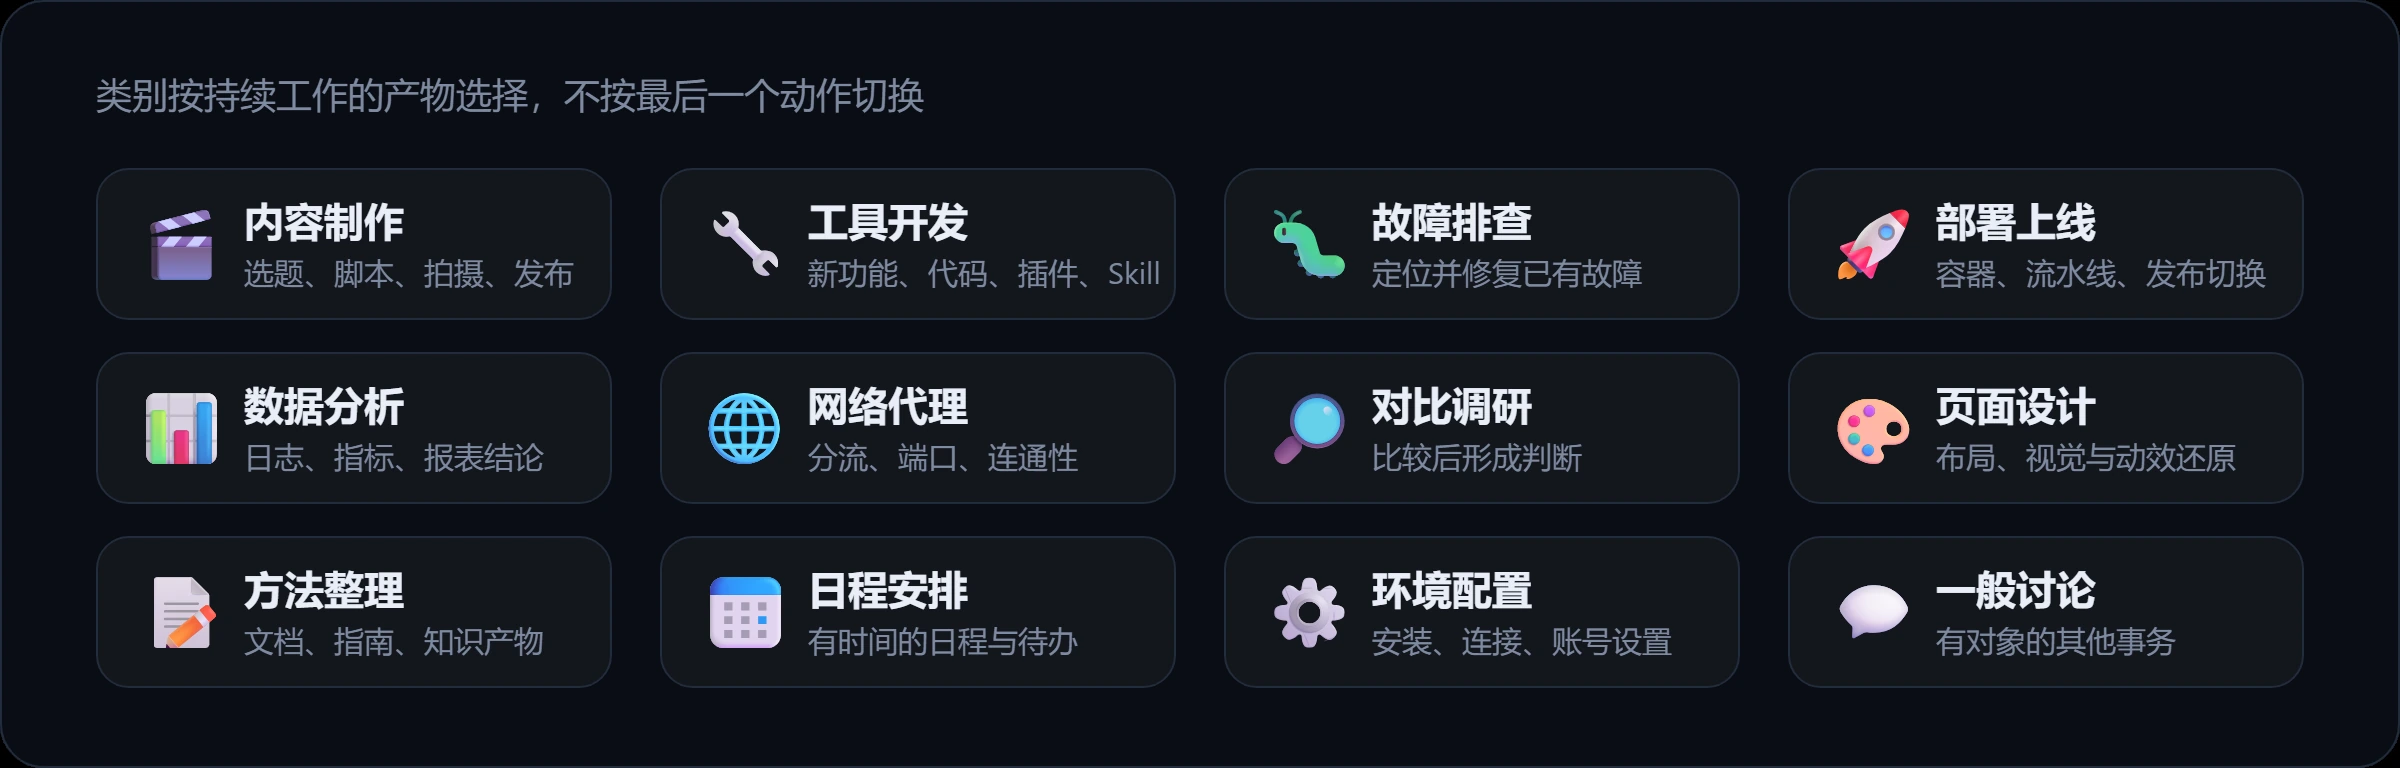
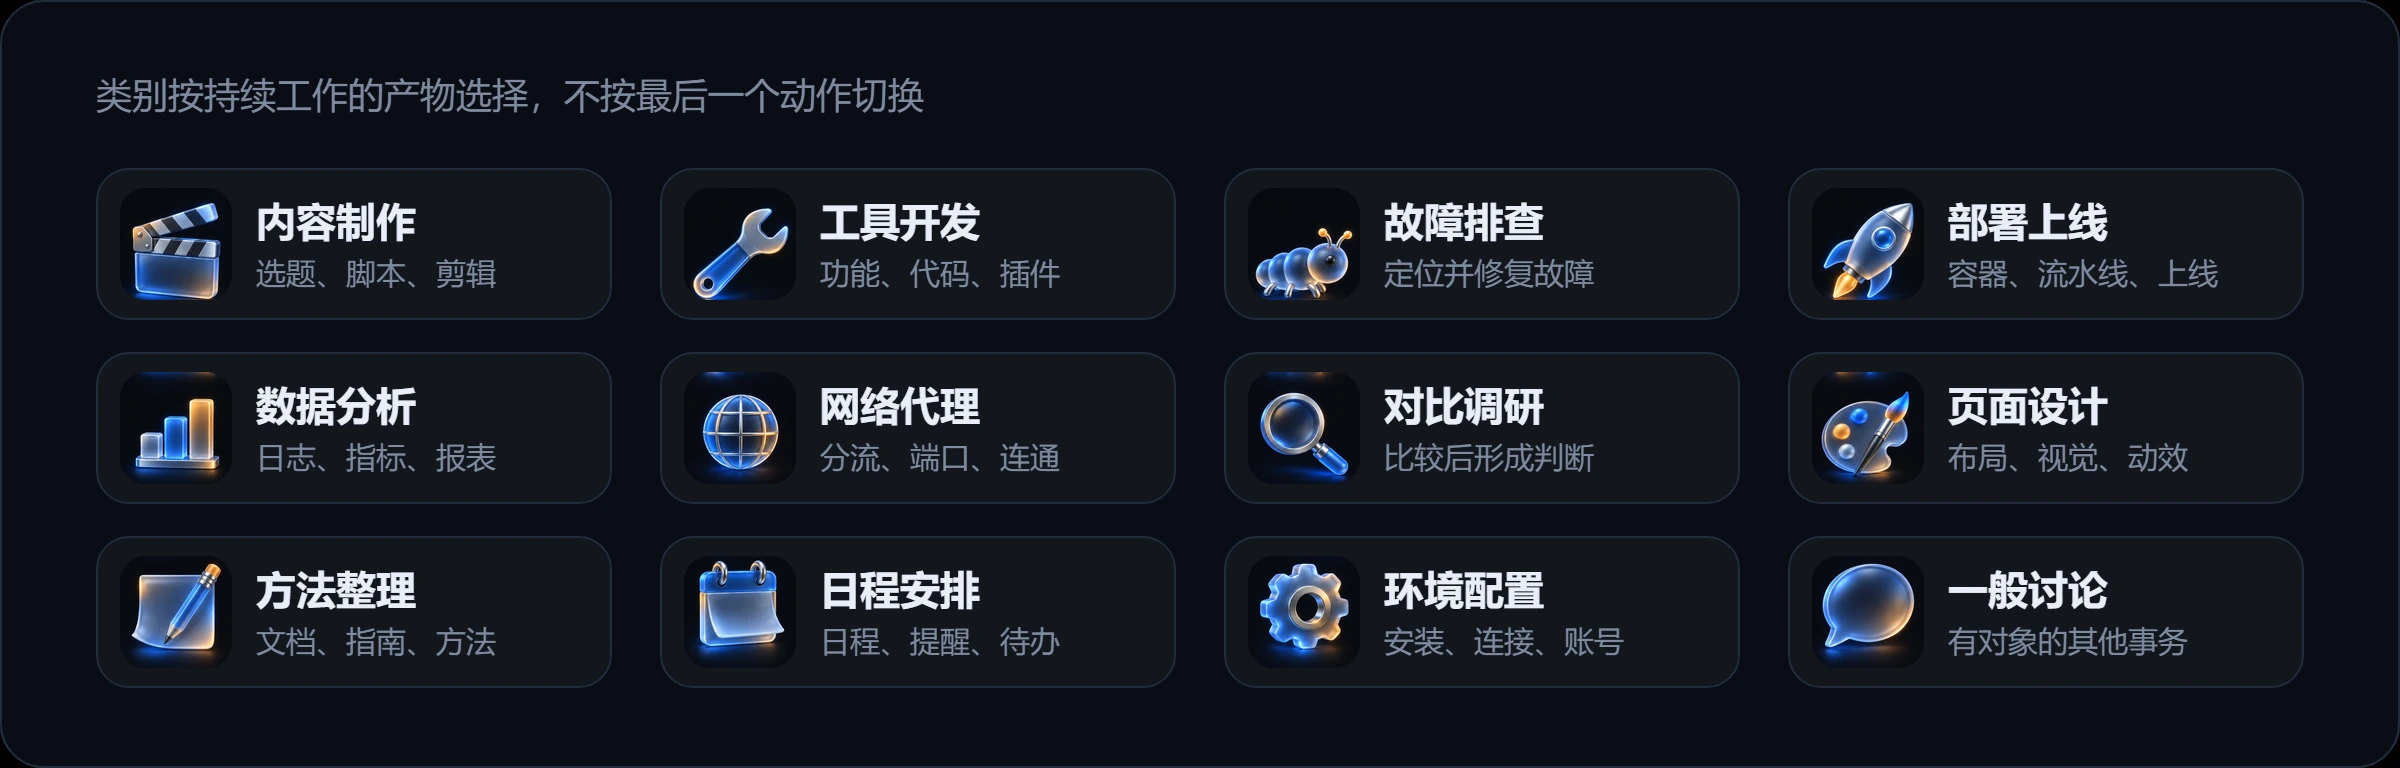
类别网格改用 12 枚 3D 图标
- 重出图标表：4×3 共 12 枚，新增 🔧 扳手、🐛 虫子、🚀 火箭、📊 柱状图、🌐 地球仪；
  🧩 拼图随旧类别一并下线。替换原先只有 8 枚的旧表。
- icons.py 改为按 4×3 切格：先用亮度包围盒定位每个图标，再钳制回本格，
  相邻图标不会串味，生成图略有偏心也能正确裁切。
- categories.webp 每格改为「3D 图标 + 类别名 + 一行说明」，网格尺寸不变。
- hero 行图标索引跟随新顺序调整（🎬 0 / 🎨 7 / 🔎 6）。
- 新图标表转存 WebP：1.5 MB → 138 KB。

diff --git a/assets/readme/source/gen_categories.py b/assets/readme/source/gen_categories.py
@@ -1,9 +1,9 @@
 # -*- coding: utf-8 -*-
-"""Builds assets/readme/categories.webp — the 12-category taxonomy as a pill grid.
+"""Builds assets/readme/categories.webp — the 12-category taxonomy as a pill grid,
+each pill carrying its generated 3D icon.
 
-The emoji are rendered by Chrome from the local colour-emoji font and baked into
-the published raster, so every viewer sees the same glyphs. The full definitions
-stay in README.md where they can be searched, translated and kept current.
+The full definitions stay in README.md where they can be searched, translated and
+kept current; the image only has to make the taxonomy scannable.
 """
 import os, sys
 from PIL import Image
@@ -11,29 +11,33 @@ from PIL import Image
 HERE = os.path.dirname(os.path.abspath(__file__))
 OUT = os.path.normpath(os.path.join(HERE, '..'))
 sys.path.insert(0, HERE)
+import icons                       # noqa: E402
 import render                      # noqa: E402
 
 W, H = 1200, 384
 FONT = '-apple-system, BlinkMacSystemFont, Segoe UI, PingFang SC, Microsoft YaHei, sans-serif'
 
-# (emoji, 名称, 一行提示)
+# (icon index into the generated sheet, 名称, 一行提示)
 CELLS = [
-    ('🎬', '内容制作', '选题、脚本、拍摄、发布'),
-    ('🔧', '工具开发', '新功能、代码、插件、Skill'),
-    ('🐛', '故障排查', '定位并修复已有故障'),
-    ('🚀', '部署上线', '容器、流水线、发布切换'),
-    ('📊', '数据分析', '日志、指标、报表结论'),
-    ('🌐', '网络代理', '分流、端口、连通性'),
-    ('🔎', '对比调研', '比较后形成判断'),
-    ('🎨', '页面设计', '布局、视觉与动效还原'),
-    ('📝', '方法整理', '文档、指南、知识产物'),
-    ('📅', '日程安排', '有时间的日程与待办'),
-    ('⚙', '环境配置', '安装、连接、账号设置'),
-    ('💬', '一般讨论', '有对象的其他事务'),
+    (0, '内容制作', '选题、脚本、剪辑'),
+    (1, '工具开发', '功能、代码、插件'),
+    (2, '故障排查', '定位并修复故障'),
+    (3, '部署上线', '容器、流水线、上线'),
+    (4, '数据分析', '日志、指标、报表'),
+    (5, '网络代理', '分流、端口、连通'),
+    (6, '对比调研', '比较后形成判断'),
+    (7, '页面设计', '布局、视觉、动效'),
+    (8, '方法整理', '文档、指南、方法'),
+    (9, '日程安排', '日程、提醒、待办'),
+    (10, '环境配置', '安装、连接、账号'),
+    (11, '一般讨论', '有对象的其他事务'),
 ]
 
-X0, CW, GAP, RH, RY0 = 48, 258, 24, 76, 84
-ROW_GAP = 16
+X0, CW, GAP, RH, RY0, ROW_GAP = 48, 258, 24, 76, 84, 16
+ICON = 56
+ICON_X, ICON_Y = 12, 10
+ICON_RX = 13
+ICON_CX, ICON_CY = ICON_X + ICON / 2, ICON_Y + ICON / 2
 
 
 def build_svg():
@@ -41,18 +45,18 @@ def build_svg():
     a = p.append
     a('<svg xmlns="http://www.w3.org/2000/svg" width="%d" height="%d" viewBox="0 0 %d %d" role="img" aria-labelledby="ct cd">' % (W, H, W, H))
     a('  <title id="ct">十二类话题标题</title>')
-    a('  <desc id="cd">十二个类别 emoji：内容制作、工具开发、故障排查、部署上线、数据分析、网络代理、对比调研、页面设计、方法整理、日程安排、环境配置、一般讨论。完整定义见 README 表格。</desc>')
+    a('  <desc id="cd">十二个类别及其图标：内容制作、工具开发、故障排查、部署上线、数据分析、网络代理、对比调研、页面设计、方法整理、日程安排、环境配置、一般讨论。完整定义见 README 表格。</desc>')
     a('  <rect width="%d" height="%d" rx="22" fill="#0A0D14"/>' % (W, H))
     a('  <rect x="0.5" y="0.5" width="%d" height="%d" rx="21.5" fill="none" stroke="#222C3C"/>' % (W - 1, H - 1))
     a('  <text x="48" y="54" font-family="%s" font-size="18" fill="#7E8AA0">类别按持续工作的产物选择，不按最后一个动作切换</text>' % FONT)
-    for i, (emoji, name, hint) in enumerate(CELLS):
+    for i, (_, name, hint) in enumerate(CELLS):
         x = X0 + (i % 4) * (CW + GAP)
         y = RY0 + (i // 4) * (RH + ROW_GAP)
         a('  <g id="cat-%d" transform="translate(%d %d)">' % (i + 1, x, y))
         a('    <rect x="0.5" y="0.5" width="%d" height="%d" rx="16" fill="#FFFFFF" fill-opacity="0.04" stroke="#222C3C"/>' % (CW - 1, RH - 1))
-        a('    <text x="18" y="%d" font-family="%s" font-size="36">%s</text>' % (RH // 2 + 13, FONT, emoji))
-        a('    <text x="74" y="34" font-family="%s" font-size="20" font-weight="600" fill="#E9EEF8">%s</text>' % (FONT, name))
-        a('    <text x="74" y="58" font-family="%s" font-size="15" fill="#7E8AA0">%s</text>' % (FONT, hint))
+        a('    <rect x="%d" y="%d" width="%d" height="%d" rx="%d" fill="#080B11"/>' % (ICON_X, ICON_Y, ICON, ICON, ICON_RX))
+        a('    <text x="80" y="34" font-family="%s" font-size="20" font-weight="600" fill="#E9EEF8">%s</text>' % (FONT, name))
+        a('    <text x="80" y="58" font-family="%s" font-size="15" fill="#7E8AA0">%s</text>' % (FONT, hint))
         a('  </g>')
     a('</svg>')
     return '\n'.join(p) + '\n'
@@ -62,8 +66,13 @@ def main():
     svg_path = os.path.join(HERE, 'categories-layout.svg')
     open(svg_path, 'w', encoding='utf-8').write(build_svg())
     png = render.render_svg(svg_path, os.path.join(OUT, '_cat_base.png'), scale=2)
-    Image.open(png).convert('RGB').save(os.path.join(OUT, 'categories.webp'),
-                                        'WEBP', quality=92, method=6)
+    base = Image.open(png).convert('RGBA')
+    for i, (idx, _, _) in enumerate(CELLS):
+        cx = (X0 + (i % 4) * (CW + GAP) + ICON_CX) * 2
+        cy = (RY0 + (i // 4) * (RH + ROW_GAP) + ICON_CY) * 2
+        icons.blend(base, idx, cx, cy, int(ICON * 2), radius_ratio=ICON_RX / ICON)
+    base.convert('RGB').save(os.path.join(OUT, 'categories.webp'), 'WEBP',
+                             quality=92, method=6)
     os.remove(png)
     print('-> categories.webp')
 

diff --git a/assets/readme/source/icons.py b/assets/readme/source/icons.py
@@ -1,10 +1,11 @@
 # -*- coding: utf-8 -*-
-"""Cut the 8 category icons out of the generated 4x2 sheet and composite them
-into the rendered README modules as rounded icon tiles.
+"""Cut the category icons out of the generated sheet and composite them into the
+rendered README modules as rounded icon tiles.
 
-The sheet is a dark plate. Each crop is re-based onto the module's tile colour
-(subtract this crop's own background, add TILE_BG) so the rounded tile has no
-visible seam, then composited through an anti-aliased rounded-rect mask.
+The sheet is a dark plate laid out as a COLS x ROWS grid. Each tile is located by
+its own bright bounding box (so a slightly off-centre generation still crops
+cleanly), clamped inside its cell so neighbouring icons can never bleed in, then
+re-based onto TILE_BG and composited through an anti-aliased rounded-rect mask.
 """
 import os
 import numpy as np
@@ -12,29 +13,47 @@ from PIL import Image, ImageDraw
 
 HERE = os.path.dirname(os.path.abspath(__file__))
 SHEET = os.path.join(HERE, 'category-icons.webp')
+COLS, ROWS = 4, 3
+COUNT = COLS * ROWS
+
 TILE = 320          # working resolution per icon
-COLS, ROWS = 4, 2
-CROP = 0.70         # fraction of a sheet cell kept around each icon
+PAD = 1.16          # margin kept around the detected bounding box
+BG_MARGIN = 22      # luminance above local background that counts as "the icon"
 TILE_BG = (8, 11, 17)
-_SS = 4             # supersampling for the mask
+_SS = 4             # supersampling for the rounded mask
 
 _cache = {}
 
 
+def _cell_box(i, cw, ch):
+    c, r = i % COLS, i // COLS
+    return c * cw, r * ch
+
+
 def tiles():
-    """Raw crops of the 8 icons, in reading order (left to right, top to bottom)."""
+    """Raw crops of the COUNT icons, in reading order (left to right, top to bottom)."""
     if 'v' in _cache:
         return _cache['v']
     sheet = Image.open(SHEET).convert('RGB')
-    sw, sh = sheet.size
-    cw, ch = sw / COLS, sh / ROWS
-    side = min(cw, ch) * CROP
+    w, h = sheet.size
+    cw, ch = w / COLS, h / ROWS
     out = []
-    for i in range(COLS * ROWS):
-        col, row = i % COLS, i // COLS
-        cx, cy = (col + 0.5) * cw, (row + 0.5) * ch
-        box = (int(cx - side / 2), int(cy - side / 2),
-               int(cx + side / 2), int(cy + side / 2))
+    for i in range(COUNT):
+        ox, oy = _cell_box(i, cw, ch)
+        cell = np.asarray(sheet.crop((int(ox), int(oy), int(ox + cw), int(oy + ch)))).astype(np.float32)
+        lum = cell.mean(axis=2)
+        bg = np.median(np.concatenate([lum[:8].ravel(), lum[-8:].ravel(),
+                                       lum[:, :8].ravel(), lum[:, -8:].ravel()]))
+        ys, xs = np.where(lum > bg + BG_MARGIN)
+        if len(xs) == 0:
+            bx0, bx1, by0, by1 = 0, cw - 1, 0, ch - 1
+        else:
+            bx0, bx1, by0, by1 = xs.min(), xs.max(), ys.min(), ys.max()
+        side = min(max(bx1 - bx0, by1 - by0) * PAD, min(cw, ch) * 0.98)
+        cx, cy = (bx0 + bx1) / 2, (by0 + by1) / 2
+        x0 = min(max(cx - side / 2, 0), cw - side)
+        y0 = min(max(cy - side / 2, 0), ch - side)
+        box = (int(ox + x0), int(oy + y0), int(ox + x0 + side), int(oy + y0 + side))
         out.append(sheet.crop(box).resize((TILE, TILE), Image.LANCZOS))
     _cache['v'] = out
     return out
@@ -44,7 +63,7 @@ def _rounded_mask(size, radius):
     n = size * _SS
     m = Image.new('L', (n, n), 0)
     ImageDraw.Draw(m).rounded_rectangle([0, 0, n - 1, n - 1],
-                                        radius=int(radius * _SS), fill=255)
+                                        radius=int(round(radius * _SS)), fill=255)
     return np.asarray(m.resize((size, size), Image.LANCZOS)).astype(np.float32) / 255.0
 
 

diff --git a/assets/readme/source/gen_hero.py b/assets/readme/source/gen_hero.py
@@ -16,7 +16,7 @@ HAS_BG = os.path.exists(os.path.join(os.path.dirname(os.path.abspath(__file__)),
 
 # (icon index, centre x, centre y) in SVG units, for the three "after" rows
 ICON_SIZE = 58
-ICON_PLACEMENTS = [(0, 494, 342), (3, 494, 404), (2, 494, 466)]
+ICON_PLACEMENTS = [(0, 494, 342), (7, 494, 404), (6, 494, 466)]
 
 BEFORE = ['新会话', '帮我看下这个页面', '继续修改']
 AFTER = ['产品短片｜分镜调整', '登录页｜视觉还原', '推理模型｜选型对比']

diff --git a/assets/readme/source/ART-DIRECTION.md b/assets/readme/source/ART-DIRECTION.md
@@ -42,15 +42,18 @@
 | --- | --- | --- |
 | assets/readme/hero.webp | 混合合成 → 发布 WebP | 第一屏：名称 + 价值 + 侧栏前后对照 |
 | assets/readme/how-it-works.svg | 纯 SVG | Stop Hook → Worker → 模型 → 写回 流程 |
-| assets/readme/categories.webp | 纯 SVG 渲染 → 发布 WebP | 12 个类别 emoji 胶囊网格 |
+| assets/readme/categories.webp | 混合合成 → 发布 WebP | 12 个类别胶囊网格，每格一枚 3D 图标 |
 | assets/readme/source/hero-layout.svg | 布局源 | hero 可编辑布局 |
 | assets/readme/source/categories-layout.svg | 布局源 | 类别模块可编辑布局 |
 | assets/readme/source/hero-bg.webp | GPT 生成 | hero 背景板（原图 1.17 MB → 29 KB） |
-| assets/readme/source/category-icons.webp | GPT 生成 | 3D 类别图标，供 hero 的行图标使用（1.42 MB → 101 KB） |
+| assets/readme/source/category-icons.webp | GPT 生成 | 4×3 十二枚 3D 类别图标（1.5 MB → 138 KB） |
 
-类别模块用系统彩色 emoji 直接渲染成位图，保证所有平台看到同一套字形；类别定义留在
-README 表格里，便于检索、翻译与随提示词更新。3D 图标只用在 hero 的三行，因为类别体系
-会随命名规则演进（本次已由 8 类扩到 12 类），把它绑到固定的生成图上会很快过时。
+类别表由提示词文件 `category-icons-prompt.txt` 生成，顺序即类别顺序：裁切按 4×3 等分
+格子，先用亮度包围盒定位每个图标再钳制回本格，避免相邻图标串味。图标顺序若与
+`CELLS` 不一致，配图会整体错位。
+
+类别定义留在 README 表格里，便于检索、翻译与随提示词更新；图片只负责让体系可扫读。
+命名规则改动后，需要重出图标表并重跑 `build.py`。
 
 ## 重建
 ```bash
